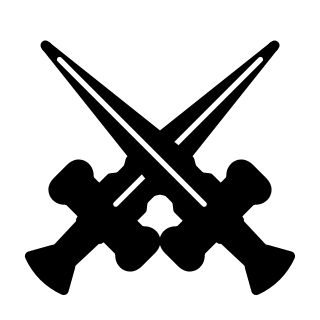
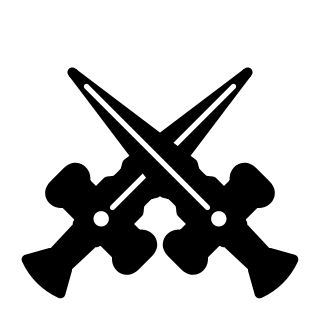
Assassin art (local only): shorter blades, a dot in each guard

diff --git a/art/source/piece_options/make_final_assassin.py b/art/source/piece_options/make_final_assassin.py
@@ -1,6 +1,7 @@
 """Final Assassin: round 19 ref_x_points_up (Mac's reference dagger, two crossed
-in an X at the middle of the whole dagger, points up), a little bigger, with no
-bands on the grips and no square on the guards. White and black, to ../pieces/.
+in an X at the middle of the whole dagger, points up), a little bigger, with
+shorter blades, no bands on the grips, and a dot in the middle of each guard in
+the opposite colour instead of the square. White and black, to ../pieces/.
 
 Run from this folder:  python make_final_assassin.py
 """
@@ -17,8 +18,11 @@ r19.SCALE = 0.94
 
 def assassin(team):
     fill = "#fff" if team == "white" else "#000"
-    return (r19.dagger(fill, 45, 36, gem=False, bands=False)
-            + r19.dagger(fill, -45, 36, gem=False, bands=False))
+    # Crossing a little further up the blades than the very middle of the
+    # dagger, so the two guards don't run into each other.
+    along = (31 - r19.HILT) / 2 * r19.SCALE + 3
+    return (r19.dagger(fill, 45, 31, along=along, gem=False, bands=False, dot=True)
+            + r19.dagger(fill, -45, 31, along=along, gem=False, bands=False, dot=True))
 
 
 if __name__ == "__main__":

diff --git a/art/source/piece_options/round19/make_round19.py b/art/source/piece_options/round19/make_round19.py
@@ -35,7 +35,7 @@ def parts(length):
     return blade, guard, grip, pommel
 
 
-def dagger(fill, angle, length, centre=CENTRE, along=None, gem=True, bands=True):
+def dagger(fill, angle, length, centre=CENTRE, along=None, gem=True, bands=True, dot=False):
     """A dagger pointing at `angle` degrees (0 = up, clockwise). The point
     `along` from the guard towards the tip (default: the middle of the whole
     dagger, pommel to tip) is put on `centre`."""
@@ -53,6 +53,9 @@ def dagger(fill, angle, length, centre=CENTRE, along=None, gem=True, bands=True)
     out += '<path d="M 0,-2.4 L 0,-%s" fill="none" stroke="%s" stroke-width="0.8"/>' % (length - 3, line)
     if gem:
         out += '<rect x="-1.2" y="-1.2" width="2.4" height="2.4" fill="none" stroke="%s" stroke-width="0.8"/>' % line
+    if dot:
+        # A dot in the middle of the guard, in the opposite colour.
+        out += '<circle cx="0" cy="0" r="1.15" fill="%s" stroke="none"/>' % line
     if bands:
         out += '<path d="M -1.6,5 L 1.6,5 M -1.5,7 L 1.5,7" fill="none" stroke="%s" stroke-width="0.8"/>' % line
     return out + "</g>"
